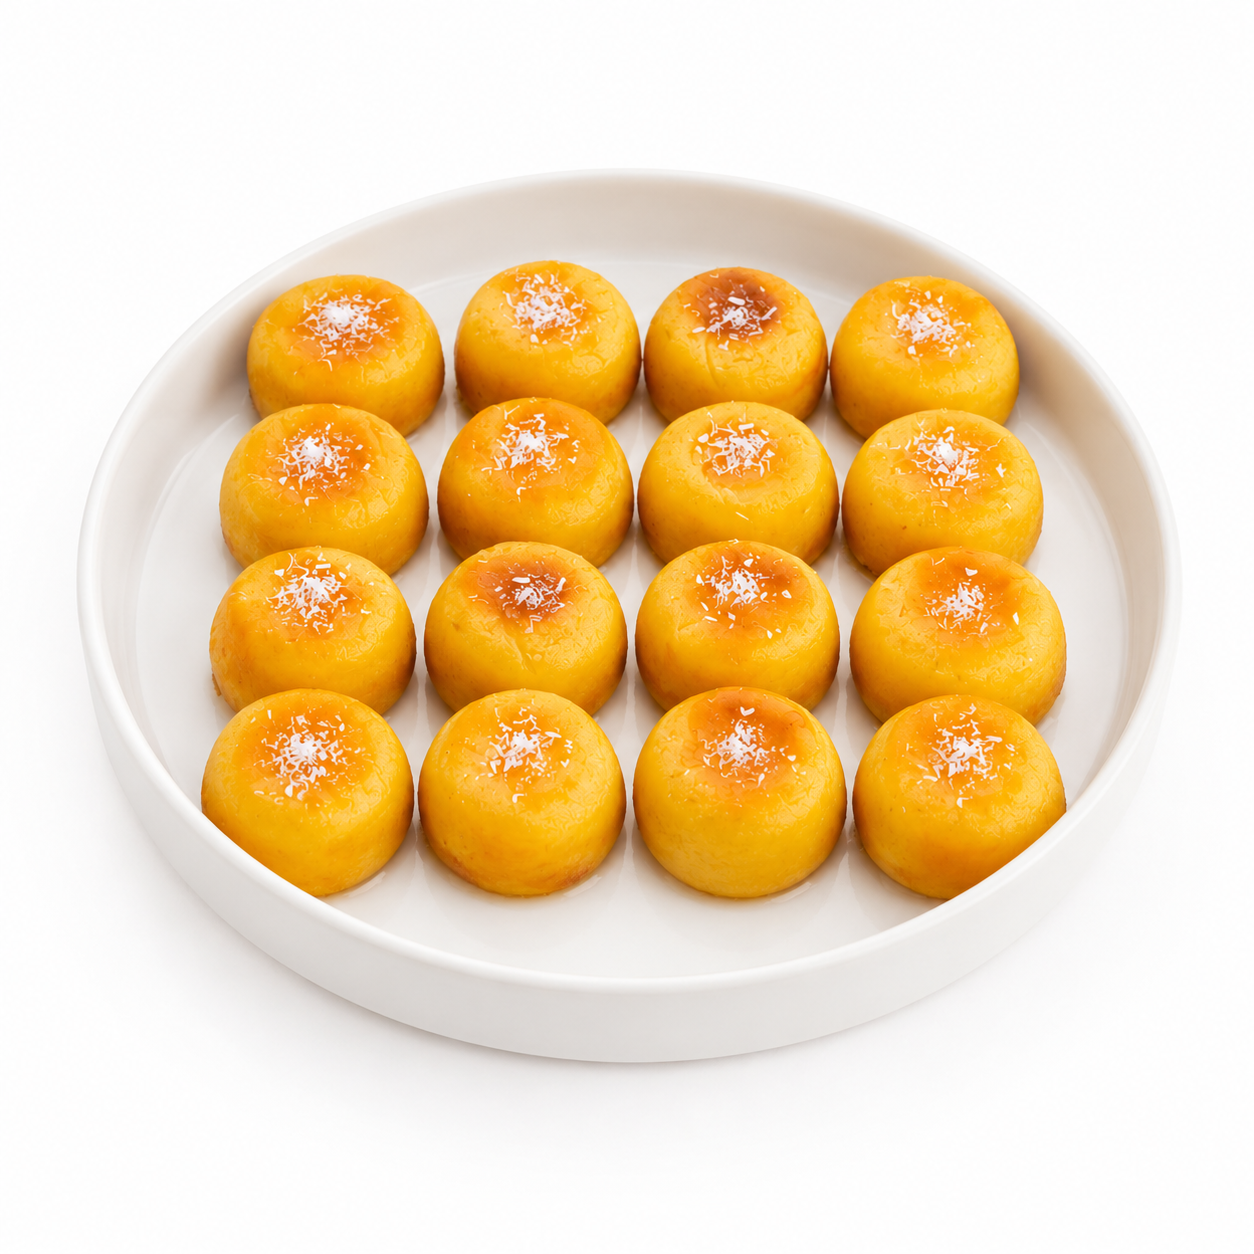
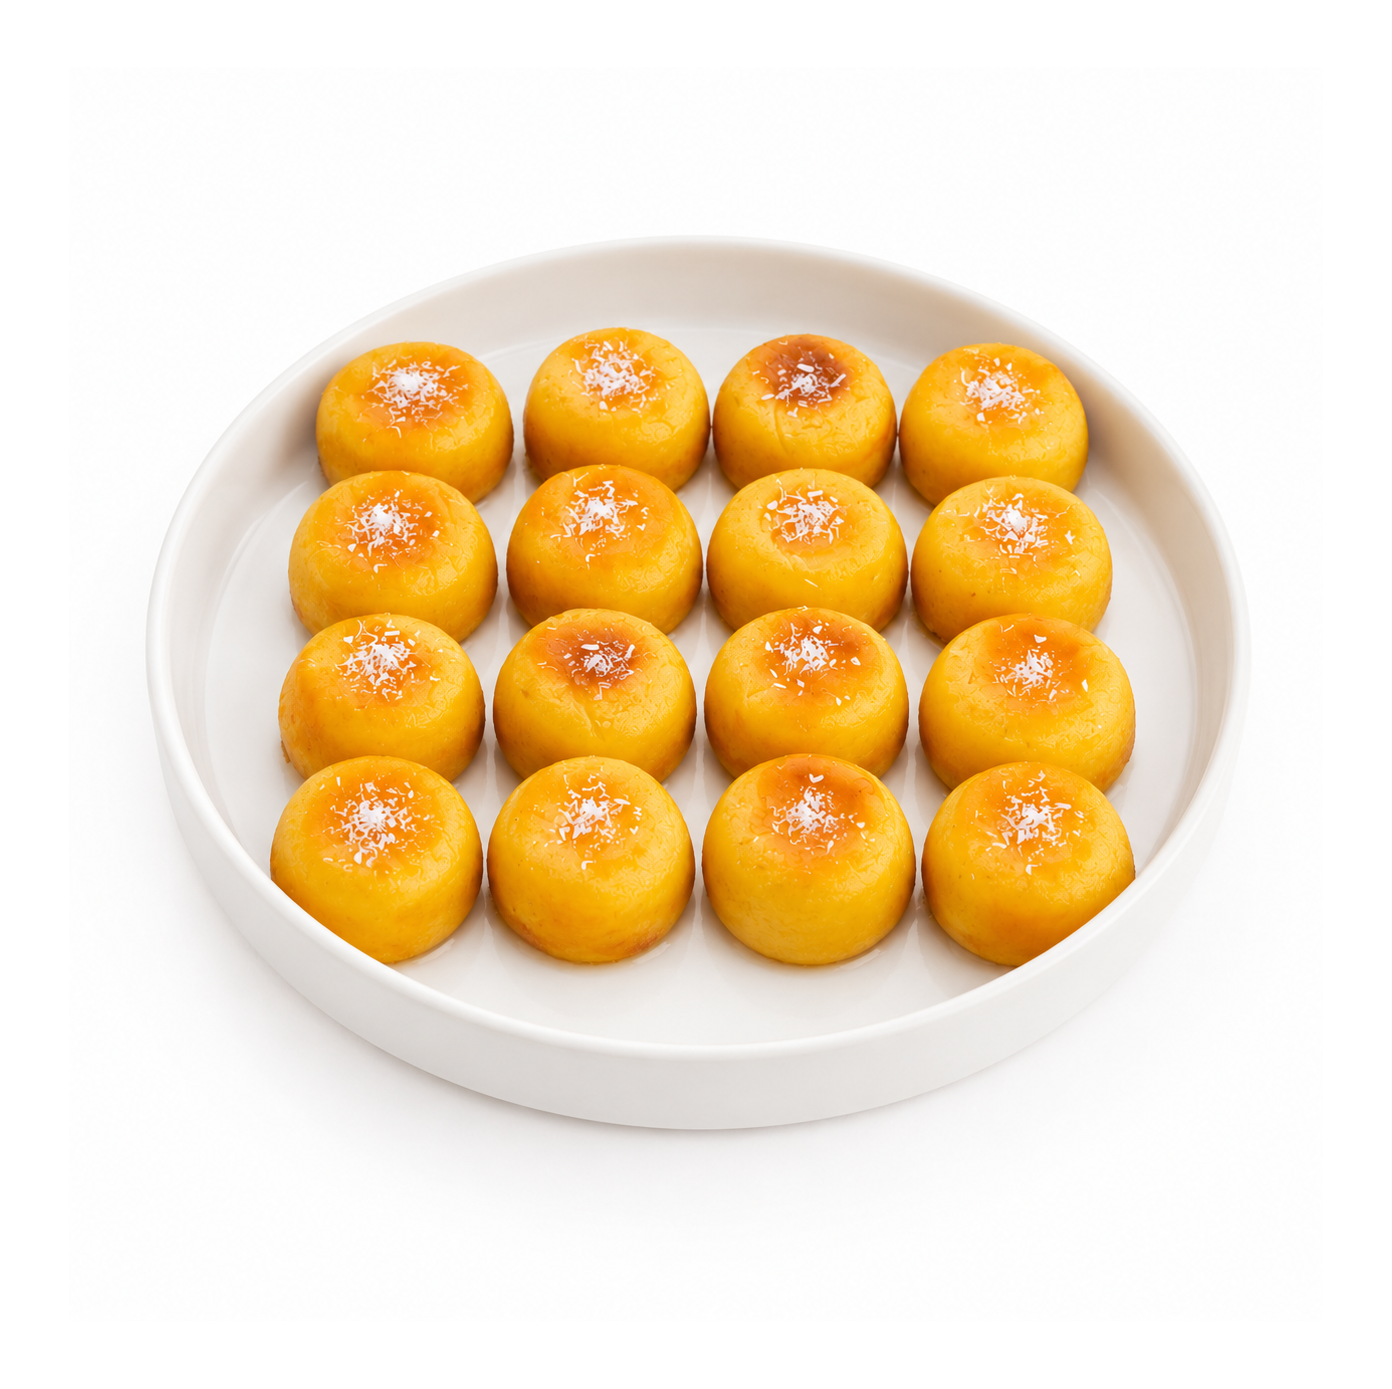
آپدیت سایت

diff --git a/courses.html b/courses.html
@@ -1232,10 +1232,10 @@
                         <div class="product-body">
 
                             <div class="product-category">
-                                TART
+                                TART LET
                             </div>
 
-                            <h6>تارت</h6>
+                            <h6>تارت لت</h6>
 
                             <div class="product-meta">
                                 <i class="bi bi-box-seam"></i>
@@ -1292,7 +1292,7 @@
                             <button
                                 type="button"
                                 class="btn-add"
-                                onclick="addProductWithFlavor('تارت','flavor-tart')"
+                                onclick="addProductWithFlavor('تارت لت','flavor-tart')"
                             >
                                 <i class="bi bi-cart-plus"></i>
                                 افزودن به سبد
@@ -1373,7 +1373,7 @@
                             <div class="product-footer">
 
                                 <div class="product-price">
-                                    ۷۰۰٬۰۰۰
+                                    ۴۵۰٬۰۰۰
                                     <span>تومان</span>
                                 </div>
 
@@ -1579,7 +1579,7 @@
                         <div class="product-img">
                             <img
                                 src="images/tartlet.png"
-                                alt="تارت لت"
+                                alt="تارت "
                                 loading="lazy"
                             >
                         </div>
@@ -1587,10 +1587,10 @@
                         <div class="product-body">
 
                             <div class="product-category">
-                                TART LET
+                                TART 
                             </div>
 
-                            <h6>تارت لت</h6>
+                            <h6>تارت </h6>
 
                             <div class="product-meta">
                                 <i class="bi bi-box-seam"></i>
@@ -1633,7 +1633,7 @@
                             <button
                                 type="button"
                                 class="btn-add"
-                                onclick="addProductWithFlavor('تارت لت','flavor-tartlet')"
+                                onclick="addProductWithFlavor('تارت ','flavor-tartlet')"
                             >
                                 <i class="bi bi-cart-plus"></i>
                                 افزودن به سبد
@@ -1843,8 +1843,8 @@
 
                         <div class="product-img">
                             <img
-                                src="images/yazdi.jpeg"
-                                alt="کیک یزدی"
+                                src="images/beneto.png"
+                                alt="مینی کیک بنتو"
                                 loading="lazy"
                             >
                         </div>
@@ -1852,21 +1852,21 @@
                         <div class="product-body">
 
                             <div class="product-category">
-                                YAZDI CAKE
+                                BENETO MINI CAKE
                             </div>
 
 
-                            <h6>کیک یزدی</h6>
+                            <h6>مینی کیک بنتو</h6>
 
                             <div class="product-meta">
                                 <i class="bi bi-box-seam"></i>
-                                یک کیلوگرم
+                                ۳۰۰ گرم 
                             </div>
 
                             <div class="product-footer">
 
                                 <div class="product-price">
-                                    ۴۵۰٬۰۰۰
+                                    ۳۵۰٬۰۰۰
                                     <span>تومان</span>
                                 </div>
 
@@ -1875,7 +1875,7 @@
                             <button
                                 type="button"
                                 class="btn-add"
-                                onclick="addToCart('کیک یزدی')"
+                                onclick="addToCart(' مینی کیک بنتو')"
                             >
                                 <i class="bi bi-cart-plus"></i>
                                 افزودن به سبد
@@ -2020,7 +2020,7 @@
                     <div class="product-card">
 
                         <div class="product-img birthday-cake-images">
-                            <img src="images/shahtot.jpeg" alt="کیک تولد ساده" loading="lazy">
+                            <img src="images/cake.png" alt="کیک تولد ساده" loading="lazy">
                         </div>
 
                         <div class="product-body">

diff --git a/index.html b/index.html
@@ -756,7 +756,7 @@
                     </small>
 
                     <strong>
-                      ۷۰۰٬۰۰۰
+                      ۴۵۰٬۰۰۰
                       <span>
                         تومان
                       </span>
@@ -2202,7 +2202,7 @@
 
 
       <span>
-        © ۱۴۰۴ هانورا — تمامی حقوق محفوظ است.
+        ©  حانورا — تمامی حقوق محفوظ است.
       </span>
 
 

diff --git a/guide.html b/guide.html
@@ -946,7 +946,7 @@
 
 
       <span>
-        © ۱۴۰۴ هانورا — تمامی حقوق محفوظ است.
+        ©  حانورا — تمامی حقوق محفوظ است.
       </span>
 
 
